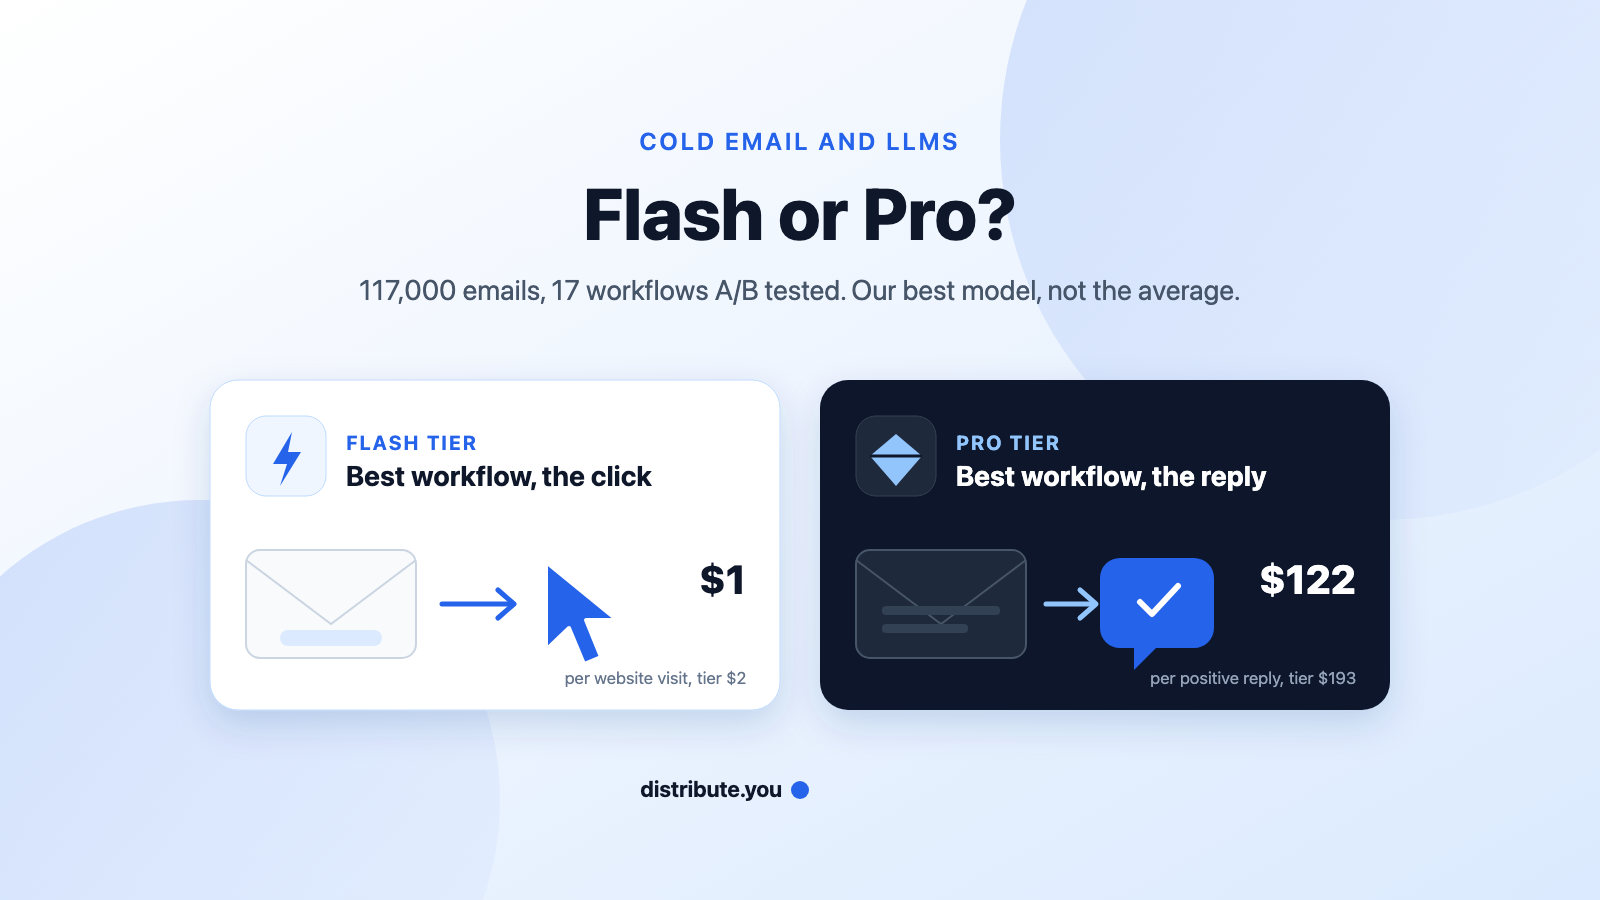
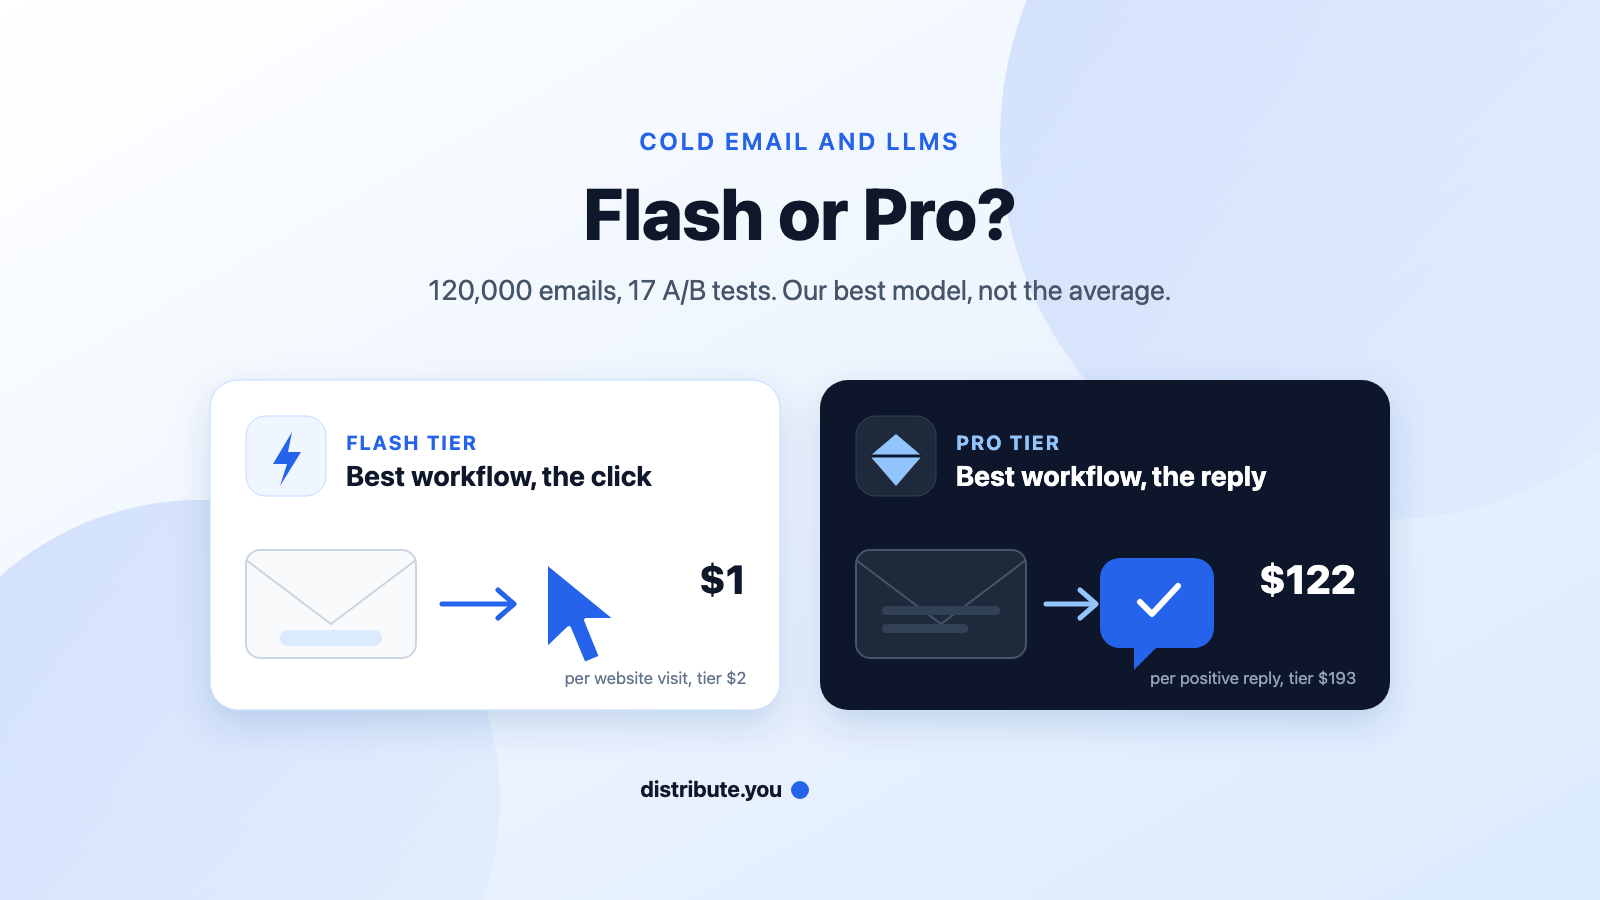
fix(landing): the Flash-vs-Pro newsletter and article say 120,000 emails and 17 A/B tests
Newsletter: 680px container, 120,000 everywhere, the answer paragraph
cut to two sentences, "17 A/B tests" instead of "17 writing workflows",
the two Flash website-visit charts (seniority, company size) added to
the "Owners reply, the C-suite clicks" section, the footer reduced to
the landing tagline plus the reply line, and the 9px mobile overflow
fixed (fixed table layout on stacked rows).

Article: 120,000 in the title, excerpt, story and hero (re-rendered),
and the spread section reads "17 A/B tests" with the word workflow
defined once. Guard test updated.

Changed region(s): [[0.2188, 0.3111, 0.7812, 0.3422]]

diff --git a/apps/landing/content/newsletters/flash-vs-pro/index.html b/apps/landing/content/newsletters/flash-vs-pro/index.html
@@ -6,7 +6,7 @@
 <meta name="x-apple-disable-message-reformatting">
 <meta name="color-scheme" content="light">
 <meta name="supported-color-schemes" content="light">
-<title>Flash or Pro LLM for cold email? What 117,000 emails say</title>
+<title>Flash or Pro LLM for cold email? What 120,000 emails say</title>
 <!--[if mso]><noscript><xml><o:OfficeDocumentSettings><o:PixelsPerInch>96</o:PixelsPerInch></o:OfficeDocumentSettings></xml></noscript><![endif]-->
 <style>
   @import url('https://fonts.googleapis.com/css2?family=Fustat:wght@400;500;600&family=Inter:wght@400;500;600;700&display=swap');
@@ -15,13 +15,15 @@
   img { border: 0; display: block; }
   a { color: #1a4fc3; }
   .display { font-family: 'Fustat', 'Inter', Helvetica, Arial, sans-serif; }
-  @media only screen and (max-width: 620px) {
+  @media only screen and (max-width: 700px) {
     .wrap { width: 100% !important; }
     .pad { padding-left: 20px !important; padding-right: 20px !important; }
     .h1 { font-size: 30px !important; line-height: 34px !important; }
     .stat-n { font-size: 44px !important; line-height: 46px !important; }
     .stack-row { display: block !important; }
     .stack { display: block !important; width: 100% !important; max-width: 100% !important; box-sizing: border-box !important; }
+    .stack-table { table-layout: fixed !important; width: 100% !important; }
+    img { max-width: 100% !important; }
     .stack-gap { display: block !important; width: 100% !important; height: 14px !important; }
     .stat-cell { padding: 0 0 22px 0 !important; }
     .stat-cell.last { padding: 0 !important; }
@@ -35,7 +37,7 @@
 <table role="presentation" width="100%" cellpadding="0" cellspacing="0" border="0" style="background:#f5f7fb;">
 <tr><td align="center" style="padding:24px 12px 40px;">
 
-<table role="presentation" class="wrap" width="600" cellpadding="0" cellspacing="0" border="0" style="width:600px;max-width:600px;">
+<table role="presentation" class="wrap" width="680" cellpadding="0" cellspacing="0" border="0" style="width:680px;max-width:680px;">
 
 <!-- Pill nav -->
 <tr><td style="padding:0 0 18px;">
@@ -58,13 +60,13 @@
   <!-- Hero -->
   <tr><td class="pad" style="padding:40px 40px 0;">
     <table role="presentation" cellpadding="0" cellspacing="0" border="0"><tr>
-      <td style="background:#eef3ff;border:1px solid #dbe6ff;border-radius:100px;padding:6px 14px;font-family:Inter,Helvetica,Arial,sans-serif;font-size:13px;color:#1a4fc3;">Benchmark &middot; 117,000 cold emails &middot; 32 clients</td>
+      <td style="background:#eef3ff;border:1px solid #dbe6ff;border-radius:100px;padding:6px 14px;font-family:Inter,Helvetica,Arial,sans-serif;font-size:13px;color:#1a4fc3;">Benchmark &middot; 120,000 cold emails &middot; 32 clients</td>
     </tr></table>
-    <h1 class="h1 display" style="margin:22px 0 0;font-family:'Fustat',Inter,Helvetica,Arial,sans-serif;font-size:38px;line-height:42px;letter-spacing:-0.04em;font-weight:500;color:#0a0a0a;">Flash or Pro? We priced both on 117,000 cold emails.</h1>
-    <p style="margin:16px 0 0;font-family:Inter,Helvetica,Arial,sans-serif;font-size:17px;line-height:26px;color:#6b6b6b;">Pro costs about 5x Flash per token. Everyone assumes it converts enough better to pay for itself. We ran 17 writing workflows on both tiers, on real campaigns, and priced every reply and every click.</p>
+    <h1 class="h1 display" style="margin:22px 0 0;font-family:'Fustat',Inter,Helvetica,Arial,sans-serif;font-size:38px;line-height:42px;letter-spacing:-0.04em;font-weight:500;color:#0a0a0a;">Flash or Pro? We priced both on 120,000 cold emails.</h1>
+    <p style="margin:16px 0 0;font-family:Inter,Helvetica,Arial,sans-serif;font-size:17px;line-height:26px;color:#6b6b6b;">Pro costs about 5x Flash per token. Everyone assumes it converts enough better to pay for itself. We ran 17 A/B tests across both tiers, on real campaigns, and priced every reply and every click.</p>
   </td></tr>
   <tr><td class="pad" style="padding:28px 40px 0;">
-    <a href="https://distribute.you/blog/flash-vs-pro-llm-cold-email?utm_source=newsletter&utm_medium=email&utm_campaign=flash-vs-pro"><img src="https://distribute.you/blog/flash-vs-pro-llm-cold-email/hero.png" width="518" alt="Flash vs Pro, priced on 117,000 cold emails" style="width:100%;max-width:518px;height:auto;border-radius:16px;border:1px solid #ececec;"></a>
+    <a href="https://distribute.you/blog/flash-vs-pro-llm-cold-email?utm_source=newsletter&utm_medium=email&utm_campaign=flash-vs-pro"><img src="https://distribute.you/blog/flash-vs-pro-llm-cold-email/hero.png" width="600" alt="Flash vs Pro, priced on 120,000 cold emails" style="width:100%;max-width:600px;height:auto;border-radius:16px;border:1px solid #ececec;"></a>
   </td></tr>
 
   <!-- Stat band (dark) -->
@@ -83,7 +85,7 @@
         </td>
         <td class="stack stat-cell last" width="33%" valign="top" style="padding:0 0 0 8px;">
           <div class="stat-n display" style="font-family:'Fustat',Inter,Helvetica,Arial,sans-serif;font-size:52px;line-height:52px;letter-spacing:-0.05em;color:#ffffff;">17</div>
-          <div style="margin-top:14px;padding-top:12px;border-top:1px solid #2b2b2b;font-family:Inter,Helvetica,Arial,sans-serif;font-size:14px;line-height:19px;color:#c4c4c4;">workflows A/B tested, 13 Pro and 4 Flash</div>
+          <div style="margin-top:14px;padding-top:12px;border-top:1px solid #2b2b2b;font-family:Inter,Helvetica,Arial,sans-serif;font-size:14px;line-height:19px;color:#c4c4c4;">A/B tests, 13 on Pro and 4 on Flash</div>
         </td>
       </tr>
       </table>
@@ -98,13 +100,13 @@
       <td style="padding-left:10px;font-family:Inter,Helvetica,Arial,sans-serif;font-size:13px;color:#6b6b6b;">The answer</td>
     </tr></table>
     <h2 class="display" style="margin:14px 0 0;font-family:'Fustat',Inter,Helvetica,Arial,sans-serif;font-size:26px;line-height:30px;letter-spacing:-0.03em;font-weight:500;color:#0a0a0a;">Each tier wins one match.</h2>
-    <p style="margin:12px 0 0;font-family:Inter,Helvetica,Arial,sans-serif;font-size:16px;line-height:25px;color:#333333;">On the reply, Pro wins by a factor of 7. Flash got one positive reply in 34,305 emails. On the click, Flash wins by 2. And inside each tier, the winning workflow beats its own average: that gap is what our clients get, never the average of the test.</p>
+    <p style="margin:12px 0 0;font-family:Inter,Helvetica,Arial,sans-serif;font-size:16px;line-height:25px;color:#333333;">On the reply, Pro wins by a factor of 7. On the click, Flash wins by 2.</p>
   </td></tr>
   <tr><td class="pad" style="padding:22px 40px 0;">
-    <img src="https://distribute.you/blog/flash-vs-pro-llm-cold-email/newsletter/chart-2.png" width="518" alt="Cost per positive reply: best Pro workflow $122, Pro tier $193, Flash tier $1,424" style="width:100%;max-width:518px;height:auto;">
+    <img src="https://distribute.you/blog/flash-vs-pro-llm-cold-email/newsletter/chart-2.png" width="600" alt="Cost per positive reply: best Pro workflow $122, Pro tier $193, Flash tier $1,424" style="width:100%;max-width:600px;height:auto;">
   </td></tr>
   <tr><td class="pad" style="padding:22px 40px 0;">
-    <img src="https://distribute.you/blog/flash-vs-pro-llm-cold-email/newsletter/chart-3.png" width="518" alt="Cost per website visit: best Flash workflow $1, Flash tier $2, best Pro workflow $3, Pro tier $4" style="width:100%;max-width:518px;height:auto;">
+    <img src="https://distribute.you/blog/flash-vs-pro-llm-cold-email/newsletter/chart-3.png" width="600" alt="Cost per website visit: best Flash workflow $1, Flash tier $2, best Pro workflow $3, Pro tier $4" style="width:100%;max-width:600px;height:auto;">
   </td></tr>
 
   <!-- The twist (tint) -->
@@ -127,7 +129,7 @@
         </td>
       </tr>
       </table>
-      <img src="https://distribute.you/blog/flash-vs-pro-llm-cold-email/newsletter/chart-4.png" width="518" alt="Positive replies per 10,000 Pro emails: no link 4.9, link in the email 0" style="width:100%;max-width:518px;height:auto;margin-top:24px;border-radius:12px;">
+      <img src="https://distribute.you/blog/flash-vs-pro-llm-cold-email/newsletter/chart-4.png" width="600" alt="Positive replies per 10,000 Pro emails: no link 4.9, link in the email 0" style="width:100%;max-width:600px;height:auto;margin-top:24px;border-radius:12px;">
     </td></tr>
     </table>
   </td></tr>
@@ -142,10 +144,16 @@
     <p style="margin:12px 0 0;font-family:Inter,Helvetica,Arial,sans-serif;font-size:16px;line-height:25px;color:#333333;">Owners are Pro's cheapest reply at $108, founders next at $146. C-suite readers click a Flash email for $1 and replied once in 8,701 Pro emails. Twenty-four of Pro's 35 replies came from companies of one to ten people.</p>
   </td></tr>
   <tr><td class="pad" style="padding:22px 40px 0;">
-    <img src="https://distribute.you/blog/flash-vs-pro-llm-cold-email/newsletter/chart-22.png" width="518" alt="Positive replies per 10,000 Pro emails by seniority: owner 8.1, founder 5.6, entry level 2.7, C-suite 1.1, director 1.9" style="width:100%;max-width:518px;height:auto;">
+    <img src="https://distribute.you/blog/flash-vs-pro-llm-cold-email/newsletter/chart-22.png" width="600" alt="Positive replies per 10,000 Pro emails by seniority: owner 8.1, founder 5.6, entry level 2.7, C-suite 1.1, director 1.9" style="width:100%;max-width:600px;height:auto;">
   </td></tr>
   <tr><td class="pad" style="padding:22px 40px 0;">
-    <img src="https://distribute.you/blog/flash-vs-pro-llm-cold-email/newsletter/chart-25.png" width="518" alt="Positive replies per 10,000 Pro emails by company size: 1 to 10 people 6.3, 11 to 50 2.8, 51 to 200 2.3" style="width:100%;max-width:518px;height:auto;">
+    <img src="https://distribute.you/blog/flash-vs-pro-llm-cold-email/newsletter/chart-25.png" width="600" alt="Positive replies per 10,000 Pro emails by company size: 1 to 10 people 6.3, 11 to 50 2.8, 51 to 200 2.3" style="width:100%;max-width:600px;height:auto;">
+  </td></tr>
+  <tr><td class="pad" style="padding:22px 40px 0;">
+    <img src="https://distribute.you/blog/flash-vs-pro-llm-cold-email/newsletter/chart-20.png" width="600" alt="Cost per website visit by seniority of the reader, Flash: C-suite $1, director $2, manager $1, founder $8, owner $3, entry level $1" style="width:100%;max-width:600px;height:auto;">
+  </td></tr>
+  <tr><td class="pad" style="padding:22px 40px 0;">
+    <img src="https://distribute.you/blog/flash-vs-pro-llm-cold-email/newsletter/chart-23.png" width="600" alt="Cost per website visit by company size, Flash: 1 to 10 people $7, 11 to 50 $2, 51 to 200 $2, 201 to 1,000 $1, over 1,000 $1" style="width:100%;max-width:600px;height:auto;">
   </td></tr>
 
   <!-- Where and when -->
@@ -158,10 +166,10 @@
     <p style="margin:12px 0 0;font-family:Inter,Helvetica,Arial,sans-serif;font-size:16px;line-height:25px;color:#333333;">Health and wellness practices do not click, they answer: 13 positive replies at $96 each, Pro's best industry. Monday carries 11 of Pro's 35 replies at $139; Wednesday is the cheapest click on both tiers.</p>
   </td></tr>
   <tr><td class="pad" style="padding:22px 40px 0;">
-    <img src="https://distribute.you/blog/flash-vs-pro-llm-cold-email/newsletter/chart-28.png" width="518" alt="Positive replies per 10,000 Pro emails by industry: health and wellness 8.7, medical practice 4.4, hospitals 2.2" style="width:100%;max-width:518px;height:auto;">
+    <img src="https://distribute.you/blog/flash-vs-pro-llm-cold-email/newsletter/chart-28.png" width="600" alt="Positive replies per 10,000 Pro emails by industry: health and wellness 8.7, medical practice 4.4, hospitals 2.2" style="width:100%;max-width:600px;height:auto;">
   </td></tr>
   <tr><td class="pad" style="padding:22px 40px 0;">
-    <img src="https://distribute.you/blog/flash-vs-pro-llm-cold-email/newsletter/chart-38.png" width="518" alt="Positive replies per 10,000 Pro emails by day of the week: Monday 6.3, Tuesday 2.5, Wednesday 5.1, Thursday 3, Friday 1.8" style="width:100%;max-width:518px;height:auto;">
+    <img src="https://distribute.you/blog/flash-vs-pro-llm-cold-email/newsletter/chart-38.png" width="600" alt="Positive replies per 10,000 Pro emails by day of the week: Monday 6.3, Tuesday 2.5, Wednesday 5.1, Thursday 3, Friday 1.8" style="width:100%;max-width:600px;height:auto;">
   </td></tr>
 
   <!-- Verdict cards (tone tiles) -->
@@ -204,8 +212,8 @@
 
 <!-- Footer -->
 <tr><td class="pad" align="center" style="padding:28px 40px 0;font-family:Inter,Helvetica,Arial,sans-serif;font-size:12px;line-height:19px;color:#919191;">
-  Written by Kevin Lourd, founder of <a href="https://distribute.you/?utm_source=newsletter&utm_medium=email&utm_campaign=flash-vs-pro" style="color:#919191;">distribute.you</a>, the agency that sells sales meetings at a measured cost.<br>
-  You are receiving this because we have exchanged emails, or because a client of ours wrote to you through us. Reply to this email and a human reads it.
+  Written by Kevin Lourd, founder of <a href="https://distribute.you/?utm_source=newsletter&utm_medium=email&utm_campaign=flash-vs-pro" style="color:#919191;">distribute.you</a>, the AI-native acquisition agency.<br>
+  Reply to this email and a human reads it.
 </td></tr>
 
 </table>

diff --git a/apps/landing/content/blog/flash-vs-pro-llm-cold-email/article.html b/apps/landing/content/blog/flash-vs-pro-llm-cold-email/article.html
@@ -13,7 +13,7 @@
 </svg>
 </figure>
 <h2 id="the-test">The test</h2>
-<p>We wrote <strong>117,000 cold emails</strong> with both tiers, on real campaigns for 32 clients, and counted two things per dollar spent: how many people clicked the link, and how many wrote back with interest. Not one prompt per tier. Every client runs an A/B test across our whole catalogue of writing workflows, so the question we can answer is sharper than <em>Flash or Pro</em>: which workflow, on which tier, buys the outcome for the least, and by how much it beats the average.</p>
+<p>We wrote <strong>120,000 cold emails</strong> with both tiers, on real campaigns for 32 clients, and counted two things per dollar spent: how many people clicked the link, and how many wrote back with interest. Not one prompt per tier. Every client runs an A/B test across our whole catalogue of writing workflows, so the question we can answer is sharper than <em>Flash or Pro</em>: which workflow, on which tier, buys the outcome for the least, and by how much it beats the average.</p>
 <h2 id="the-answer">The answer</h2>
 <p><strong>Our best Pro workflow buys a positive reply for $122.</strong> The Pro tier as a whole pays $193; Flash got one reply in 34,305 emails. <strong>Our best Flash workflow buys a website visit for $1.</strong> The Flash tier as a whole pays $2, Pro $4. Each tier wins one match, and inside each tier the winning workflow beats its own average.</p>
 <figure>
@@ -56,8 +56,8 @@
 <text x="0" y="268" font-size="13" fill="#64748b">Emails with a link to the client's site. One visit per person.</text>
 </svg>
 </figure>
-<h2 id="the-spread">The A/B test: 17 workflows, one winner per outcome</h2>
-<p>A workflow is one prompt on one model. We ran 17 of them past a thousand emails each, 13 on Pro and 4 on Flash, on the same kinds of lists. The spread between them is the whole point of running the test. The best Pro workflow turned 7.6 emails in 10,000 into a positive reply; the Pro tier averaged 4.2; 4 Pro workflows got none at all, and no other workflow has enough replies to be priced yet. On the click, the Pro workflows run from $1 a visit to $6, the Flash ones from $1 to $4.</p>
+<h2 id="the-spread">17 A/B tests, one winner per outcome</h2>
+<p>Each A/B test is one prompt on one model, which we call a workflow. We ran 17 of them past a thousand emails each, 13 on Pro and 4 on Flash, on the same kinds of lists. The spread between them is the whole point of running the test. The best Pro workflow turned 7.6 emails in 10,000 into a positive reply; the Pro tier averaged 4.2; 4 Pro workflows got none at all, and no other workflow has enough replies to be priced yet. On the click, the Pro workflows run from $1 a visit to $6, the Flash ones from $1 to $4.</p>
 <p><strong>This is the gap distribute.you gives its clients.</strong> Every campaign runs on the workflow with the best measured cost for what that campaign buys, across every client. A client never gets the average of the test. They get its winner, and the winner changes when the numbers do.</p>
 <h2 id="the-twist">The twist: what the email asks for decides the outcome</h2>
 <p>Of the 36 positive replies, <strong>every one came from an email with no link in it</strong>: 4.9 positive replies per 10,000 Pro emails without a link, none at all in 11,740 Pro emails with one. An email that asks for a click gets clicks. An email that asks for a reply gets replies, and a link in it is a way out of the conversation. The tier only changes the price of what the email asked for: on the reply, Pro wins by a factor of 7; on the click, Flash wins by 2.</p>
@@ -853,7 +853,7 @@
 </svg>
 </figure>
 <h2 id="why">Why</h2>
-<p>A click is cheap to earn: a decent email with a link, and some people click. A reply is expensive to earn: someone has to read, believe and type. Across all 117,000 emails a positive reply was 25x rarer than a click. The stronger model earns its keep exactly where the bar is higher, and the best prompt on that model earns it again: the best Pro workflow's reply costs 37% less than its own tier's.</p>
+<p>A click is cheap to earn: a decent email with a link, and some people click. A reply is expensive to earn: someone has to read, believe and type. Across all 120,000 emails a positive reply was 25x rarer than a click. The stronger model earns its keep exactly where the bar is higher, and the best prompt on that model earns it again: the best Pro workflow's reply costs 37% less than its own tier's.</p>
 <p>We have not tested the Frontier tier yet. At 5 to 10x the Pro price, the reply would have to get a lot cheaper still. We will publish that when we have it.</p>
 <h2 id="others">What others measured</h2>
 <p>Nobody else publishes what a positive reply costs. The industry publishes reply rates, and reads them on very different bases from ours: every reply counted, positive or not, per campaign, on lists the sender curated by hand. Here is what the largest studies say, quoted as published, beside what this one measured.</p>

diff --git a/apps/landing/tests/unit/blog-flash-vs-pro.test.ts b/apps/landing/tests/unit/blog-flash-vs-pro.test.ts
@@ -104,14 +104,14 @@ describe("flash-or-pro article: the headline is the best workflow, not the tier 
     expect(hero).toContain(`per positive reply, tier ${PRO_CPPR}`);
     expect(hero).toContain("Best workflow, the click");
     expect(hero).toContain("Best workflow, the reply");
-    expect(hero).toContain("117,000 emails, 17 workflows A/B tested");
+    expect(hero).toContain("120,000 emails, 17 A/B tests");
     expect(hero).toContain("FLASH TIER");
     expect(hero).toContain("PRO TIER");
   });
 
   it("the title and the excerpt carry the A/B framing and the best-workflow figures", () => {
-    expect(String(meta.title)).toContain("A/B tested 17 workflows");
-    expect(String(meta.title)).toContain("117,000 emails");
+    expect(String(meta.title)).toContain("ran 17 A/B tests");
+    expect(String(meta.title)).toContain("120,000 emails");
     expect(String(meta.excerpt)).toContain(BEST_PRO_CPPR);
     expect(String(meta.excerpt)).toContain(BEST_FLASH_CPWV);
     expect(String(meta.excerpt)).toContain("beats its own tier's average");
@@ -119,7 +119,7 @@ describe("flash-or-pro article: the headline is the best workflow, not the tier 
 
   it("the A/B section names the winner of each outcome and the gap distribute.you hands its clients", () => {
     const spread = section("the-spread");
-    expect(spread).toContain("17 workflows, one winner per outcome");
+    expect(spread).toContain("17 A/B tests, one winner per outcome");
     // Owner rule (2026-09-10): no per-workflow chart at all, named or numbered.
     // The page states the best workflow per outcome and the tier it beats, nothing finer.
     expect(spread).not.toContain("<svg");
@@ -151,8 +151,8 @@ describe("flash-or-pro article: editorial rules", () => {
     expect(method).toMatch(/Frontier, the most expensive \(Claude Fable, Astra\), not yet run/);
   });
 
-  it("the volume is a round 117,000 in the title, story and hero; the exact count lives under Method only", () => {
-    expect(story).toContain("117,000 cold emails");
+  it("the volume is a round 120,000 in the title, story and hero; the exact count lives under Method only", () => {
+    expect(story).toContain("120,000 cold emails");
     expect(story).not.toContain("116,925");
     expect(method).toContain("116,925 emails");
   });
